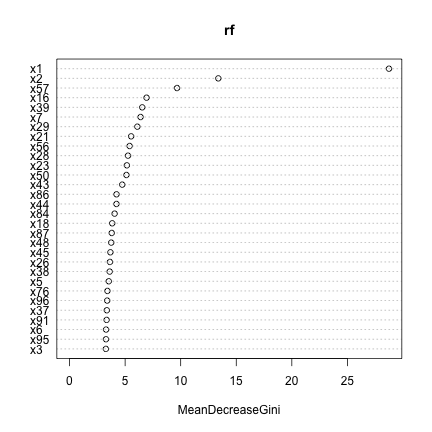
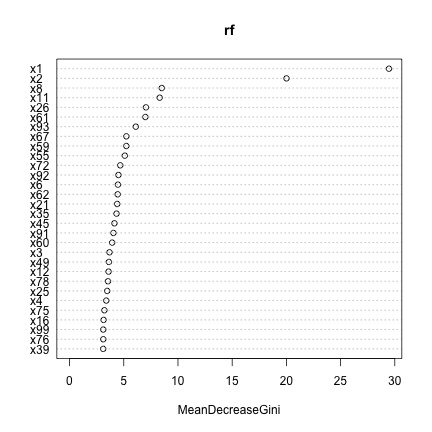
final?

diff --git a/_posts/2014-10-29-thoughts.md b/_posts/2014-10-29-thoughts.md
@@ -4,9 +4,9 @@ title: "Principal Components and Data Mining"
 description: "Principal components are a very sketchy member of the data mining tool set."
 tags: [principal components, data mining]
 image:
-  feature: abstract-6.jpg
-  credit: dargadgetz
-  creditlink: http://www.dargadgetz.com/ios-7-abstract-wallpaper-pack-for-iphone-5-and-ipod-touch-retina/
+  feature: beverlyhills-1984-no7.jpg
+  credit: Anthony Hernan6dez
+  creditlink: http://www.cgrimes.com/exhibitions/2006/beverly-hills-broadway/
 comments: true
 share: true
 ---
@@ -130,11 +130,11 @@ svm.res <- xtable(table(pred = prediction, true = d$y[801:1000]))
 
 and our results are fine:
 <!-- html table generated in R 3.0.2 by xtable 1.7-1 package -->
-<!-- Thu Oct 30 20:21:25 2014 -->
+<!-- Thu Oct 30 20:27:38 2014 -->
 <TABLE border=1>
 <TR> <TH>  </TH> <TH> 0 </TH> <TH> 1 </TH>  </TR>
-  <TR> <TD align="right"> 0 </TD> <TD align="right">  96 </TD> <TD align="right">  12 </TD> </TR>
-  <TR> <TD align="right"> 1 </TD> <TD align="right">   6 </TD> <TD align="right">  86 </TD> </TR>
+  <TR> <TD align="right"> 0 </TD> <TD align="right"> 104 </TD> <TD align="right">  15 </TD> </TR>
+  <TR> <TD align="right"> 1 </TD> <TD align="right">  10 </TD> <TD align="right">  71 </TD> </TR>
    </TABLE>
 
 
@@ -149,8 +149,8 @@ svm.PC.res <- xtable(table(pred = prediction, true = d.PC$y[801:1000]))
 
 <TABLE border=1>
 <TR> <TH>  </TH> <TH> 0 </TH> <TH> 1 </TH>  </TR>
-  <TR> <TD align="right"> 0 </TD> <TD align="right">   0 </TD> <TD align="right">   0 </TD> </TR>
-  <TR> <TD align="right"> 1 </TD> <TD align="right"> 102 </TD> <TD align="right">  98 </TD> </TR>
+  <TR> <TD align="right"> 0 </TD> <TD align="right"> 114 </TD> <TD align="right">  86 </TD> </TR>
+  <TR> <TD align="right"> 1 </TD> <TD align="right">   0 </TD> <TD align="right">   0 </TD> </TR>
    </TABLE>
 
 
@@ -167,11 +167,11 @@ rf.res <- xtable(table(pred = prediction, true = d$y[801:1000]))
 
 
 <!-- html table generated in R 3.0.2 by xtable 1.7-1 package -->
-<!-- Thu Oct 30 20:21:32 2014 -->
+<!-- Thu Oct 30 20:27:45 2014 -->
 <TABLE border=1>
 <TR> <TH>  </TH> <TH> 0 </TH> <TH> 1 </TH>  </TR>
-  <TR> <TD align="right"> 0 </TD> <TD align="right">  83 </TD> <TD align="right">  26 </TD> </TR>
-  <TR> <TD align="right"> 1 </TD> <TD align="right">  19 </TD> <TD align="right">  72 </TD> </TR>
+  <TR> <TD align="right"> 0 </TD> <TD align="right"> 106 </TD> <TD align="right">  16 </TD> </TR>
+  <TR> <TD align="right"> 1 </TD> <TD align="right">   8 </TD> <TD align="right">  70 </TD> </TR>
    </TABLE>
 
 
@@ -193,10 +193,12 @@ rf.PC.res <- xtable(table(pred = prediction, true = d.PC$y[801:1000]))
 {% endhighlight %}
 
 the results are garbage:
+<!-- html table generated in R 3.0.2 by xtable 1.7-1 package -->
+<!-- Thu Oct 30 20:27:53 2014 -->
 <TABLE border=1>
 <TR> <TH>  </TH> <TH> 0 </TH> <TH> 1 </TH>  </TR>
-  <TR> <TD align="right"> 0 </TD> <TD align="right">  50 </TD> <TD align="right">  55 </TD> </TR>
-  <TR> <TD align="right"> 1 </TD> <TD align="right">  52 </TD> <TD align="right">  43 </TD> </TR>
+  <TR> <TD align="right"> 0 </TD> <TD align="right">  67 </TD> <TD align="right">  52 </TD> </TR>
+  <TR> <TD align="right"> 1 </TD> <TD align="right">  47 </TD> <TD align="right">  34 </TD> </TR>
    </TABLE>
 
 and the importance plot is not about to help:
